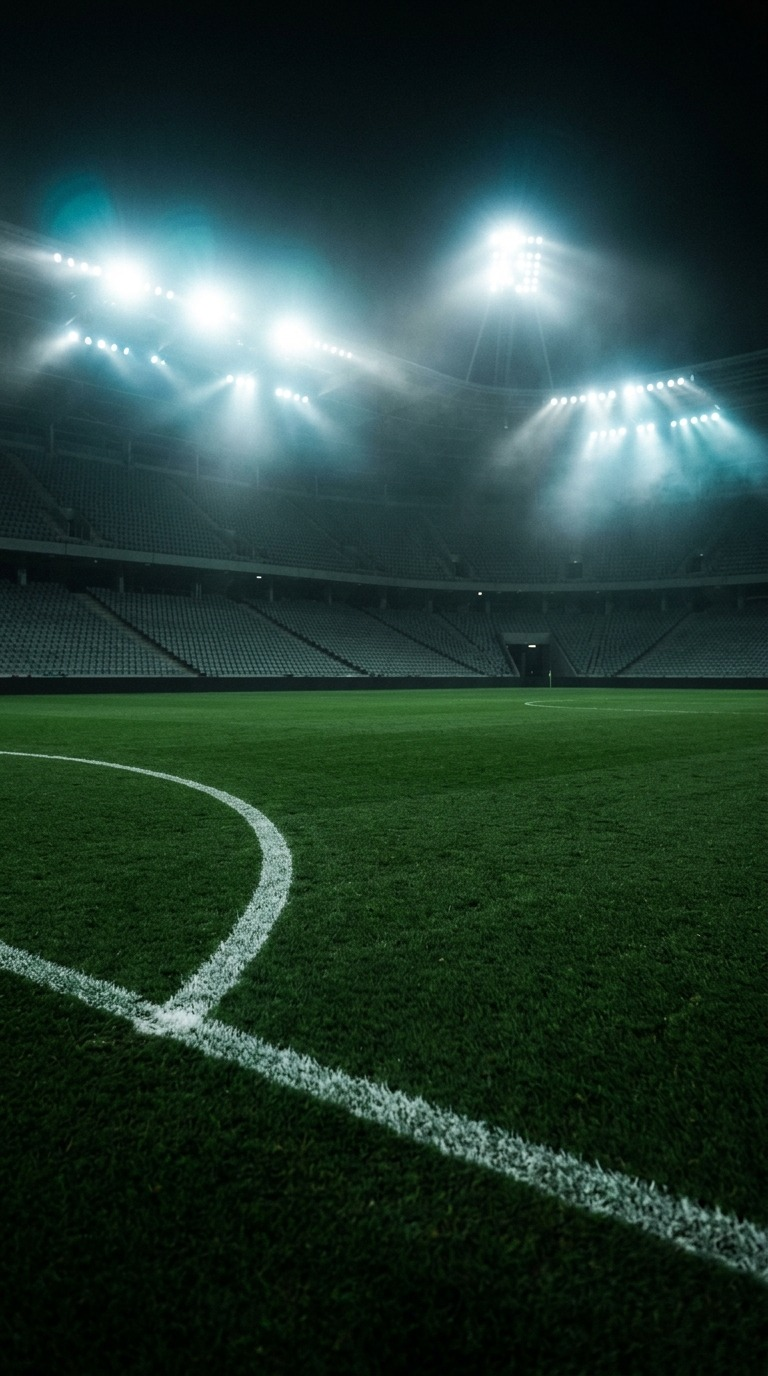
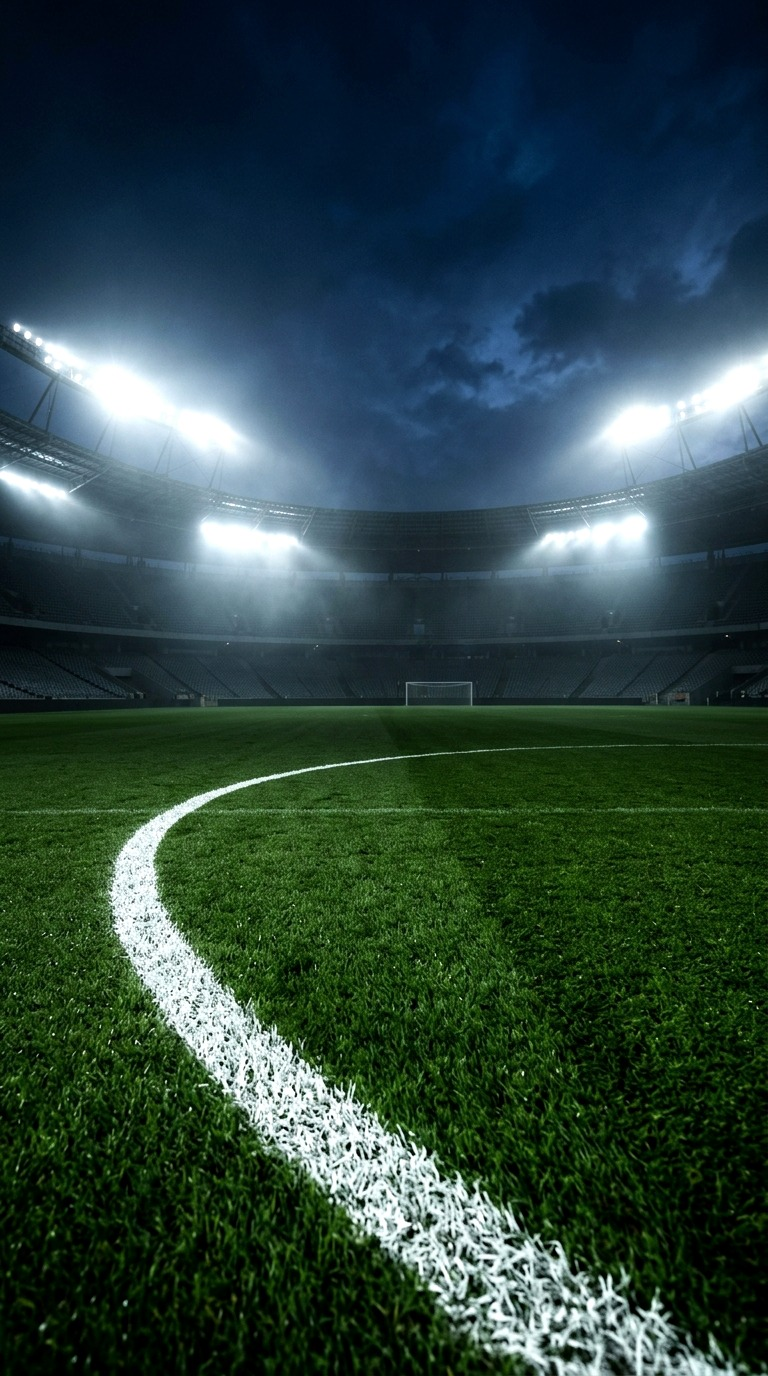
feat(ui): update quick registration screen with unique football stadium bg, refined typography and theme button

diff --git a/lib/screens/quick_registration_screen.dart b/lib/screens/quick_registration_screen.dart
@@ -1,5 +1,6 @@
 import 'package:flutter/material.dart';
 import '../services/routing_service.dart';
+import '../theme/app_theme.dart';
 
 class QuickRegistrationScreen extends StatelessWidget {
   final String? headline;
@@ -16,88 +17,19 @@ class QuickRegistrationScreen extends StatelessWidget {
 
   const QuickRegistrationScreen({
     super.key,
-    this.headline,
-    this.headlineAccent,
-    this.description,
-    this.ctaText,
-    this.footerText,
+    this.headline = 'Быстрая',
+    this.headlineAccent = 'регистрация',
+    this.description =
+        'Зарегистрируйтесь на сайте и откройте доступ к актуальному предложению. Регистрация займёт всего пару минут.',
+    this.ctaText = 'Перейти к регистрации',
+    this.footerText = 'После нажатия откроется сайт для регистрации.',
     this.registrationUrl = 'https://applinkgo.com/srf2PnRD',
     this.backgroundAsset = 'assets/stadium_bg.jpg',
-    this.primaryCtaColor = const Color(0xFF007AFF),
-    this.accentTextColor = const Color(0xFF2979FF),
+    this.primaryCtaColor = AppTheme.primaryColor,
+    this.accentTextColor = AppTheme.secondaryColor,
     this.onClose,
     this.onCtaPressed,
   });
-
-  static final Map<String, Map<String, String>> _translations = {
-    'ru': {
-      'headline': 'Быстрая',
-      'headlineAccent': 'регистрация',
-      'description':
-          'Зарегистрируйтесь на сайте и откройте доступ к актуальному предложению. Регистрация займёт всего пару минут.',
-      'cta': 'Перейти к регистрации',
-      'footer': 'После нажатия откроется сайт для регистрации.',
-    },
-    'en': {
-      'headline': 'Quick',
-      'headlineAccent': 'Registration',
-      'description':
-          'Register on the website and get access to the latest exclusive offer. Registration takes only a few minutes.',
-      'cta': 'Proceed to Registration',
-      'footer': 'The registration website will open after tapping.',
-    },
-    'es': {
-      'headline': 'Registro',
-      'headlineAccent': 'Rápido',
-      'description':
-          'Regístrese en el sitio web y obtenga acceso a la oferta actual. El registro solo toma un par de minutos.',
-      'cta': 'Ir al registro',
-      'footer': 'El sitio de registro se abrirá tras pulsar.',
-    },
-    'pt': {
-      'headline': 'Cadastro',
-      'headlineAccent': 'Rápido',
-      'description':
-          'Cadastre-se no site e tenha acesso à oferta atual. O cadastro leva apenas alguns minutos.',
-      'cta': 'Ir para o cadastro',
-      'footer': 'O site de cadastro será aberto após clicar.',
-    },
-    'kk': {
-      'headline': 'Жылдам',
-      'headlineAccent': 'тіркелу',
-      'description':
-          'Сайтта тіркеліп, өзекті ұсынысқа қол жеткізіңіз. Тіркелу бар болғаны бірнеше минут алады.',
-      'cta': 'Тіркелуге өту',
-      'footer': 'Басқаннан кейін тіркелу сайты ашылады.',
-    },
-    'tr': {
-      'headline': 'Hızlı',
-      'headlineAccent': 'Kayıt',
-      'description':
-          'Web sitesine kaydolun ve güncel teklife erişim kazanın. Kayıt sadece birkaç dakika sürer.',
-      'cta': 'Kayıt Olmaya Git',
-      'footer': 'Tıkladıktan sonra kayıt sitesi açılacaktır.',
-    },
-    'de': {
-      'headline': 'Schnelle',
-      'headlineAccent': 'Registrierung',
-      'description':
-          'Registrieren Sie sich auf der Website und erhalten Sie Zugang zum aktuellen Angebot. Die Registrierung dauert nur wenige Minuten.',
-      'cta': 'Zur Registrierung',
-      'footer': 'Nach dem Antippen öffnet sich die Registrierungsseite.',
-    },
-  };
-
-  Map<String, String> _getLocalizedStrings(BuildContext context) {
-    try {
-      final locale = View.of(context).platformDispatcher.locale;
-      final lang = locale.languageCode.toLowerCase();
-      if (_translations.containsKey(lang)) {
-        return _translations[lang]!;
-      }
-    } catch (_) {}
-    return _translations['ru']!;
-  }
 
   void _handleCta(BuildContext context) {
     if (onCtaPressed != null) {
@@ -109,19 +41,12 @@ class QuickRegistrationScreen extends StatelessWidget {
 
   @override
   Widget build(BuildContext context) {
-    final loc = _getLocalizedStrings(context);
-
-    final displayHeadline = headline ?? loc['headline']!;
-    final displayHeadlineAccent = headlineAccent ?? loc['headlineAccent']!;
-    final displayDescription = description ?? loc['description']!;
-    final displayCta = ctaText ?? loc['cta']!;
-    final displayFooter = footerText ?? loc['footer']!;
-
     return Scaffold(
       backgroundColor: Colors.black,
       body: Stack(
         fit: StackFit.expand,
         children: [
+          // 1. Full-bleed Themed Football Stadium Background
           Image.asset(
             backgroundAsset,
             fit: BoxFit.cover,
@@ -130,26 +55,31 @@ class QuickRegistrationScreen extends StatelessWidget {
               color: const Color(0xFF0A121A),
             ),
           ),
+
+          // 2. Cinematic Vignette Gradient Overlay
           DecoratedBox(
             decoration: BoxDecoration(
               gradient: LinearGradient(
                 begin: Alignment.topCenter,
                 end: Alignment.bottomCenter,
                 colors: [
-                  Colors.black.withValues(alpha: 0.50),
+                  Colors.black.withValues(alpha: 0.60),
                   Colors.black.withValues(alpha: 0.20),
-                  Colors.black.withValues(alpha: 0.40),
+                  Colors.black.withValues(alpha: 0.35),
                   Colors.black.withValues(alpha: 0.85),
                 ],
-                stops: const [0.0, 0.25, 0.65, 1.0],
+                stops: const [0.0, 0.25, 0.60, 1.0],
               ),
             ),
           ),
+
+          // 3. UI Layer
           SafeArea(
             child: Padding(
               padding: const EdgeInsets.symmetric(horizontal: 24.0, vertical: 12.0),
               child: Column(
                 children: [
+                  // Top Right: Circular Close Button
                   Row(
                     mainAxisAlignment: MainAxisAlignment.end,
                     children: [
@@ -163,9 +93,9 @@ class QuickRegistrationScreen extends StatelessWidget {
                             height: 44,
                             decoration: BoxDecoration(
                               shape: BoxShape.circle,
-                              color: Colors.white.withValues(alpha: 0.18),
+                              color: Colors.black.withValues(alpha: 0.40),
                               border: Border.all(
-                                color: Colors.white.withValues(alpha: 0.25),
+                                color: Colors.white.withValues(alpha: 0.28),
                                 width: 1,
                               ),
                             ),
@@ -179,63 +109,77 @@ class QuickRegistrationScreen extends StatelessWidget {
                       ),
                     ],
                   ),
+
                   const Spacer(flex: 2),
+
+                  // Center Headline & Description
                   Column(
                     mainAxisSize: MainAxisSize.min,
                     children: [
                       Text(
-                        displayHeadline,
+                        headline!,
                         textAlign: TextAlign.center,
                         style: const TextStyle(
-                          fontSize: 42,
+                          fontSize: 44,
                           fontWeight: FontWeight.w900,
                           color: Colors.white,
-                          letterSpacing: -0.5,
-                          height: 1.05,
+                          letterSpacing: -1.0,
+                          height: 1.04,
                           shadows: [
                             Shadow(
-                              color: Colors.black87,
-                              blurRadius: 16,
-                              offset: Offset(0, 2),
+                              color: Colors.black,
+                              blurRadius: 24,
+                              offset: Offset(0, 3),
                             ),
-                          ],
-                        ),
-                      ),
-                      const SizedBox(height: 4),
-                      Text(
-                        displayHeadlineAccent,
-                        textAlign: TextAlign.center,
-                        style: TextStyle(
-                          fontSize: 42,
-                          fontWeight: FontWeight.w900,
-                          color: accentTextColor,
-                          letterSpacing: -0.5,
-                          height: 1.05,
-                          shadows: const [
                             Shadow(
                               color: Colors.black87,
-                              blurRadius: 16,
-                              offset: Offset(0, 2),
+                              blurRadius: 10,
+                              offset: Offset(0, 1),
                             ),
                           ],
                         ),
                       ),
-                      const SizedBox(height: 20),
+                      const SizedBox(height: 2),
+                      Text(
+                        headlineAccent!,
+                        textAlign: TextAlign.center,
+                        style: TextStyle(
+                          fontSize: 44,
+                          fontWeight: FontWeight.w900,
+                          color: accentTextColor,
+                          letterSpacing: -1.0,
+                          height: 1.04,
+                          shadows: [
+                            Shadow(
+                              color: Colors.black,
+                              blurRadius: 24,
+                              offset: const Offset(0, 3),
+                            ),
+                            Shadow(
+                              color: accentTextColor.withValues(alpha: 0.45),
+                              blurRadius: 28,
+                              offset: const Offset(0, 0),
+                            ),
+                          ],
+                        ),
+                      ),
+                      const SizedBox(height: 22),
                       Padding(
-                        padding: const EdgeInsets.symmetric(horizontal: 8.0),
+                        padding: const EdgeInsets.symmetric(horizontal: 14.0),
                         child: Text(
-                          displayDescription,
+                          description!,
                           textAlign: TextAlign.center,
                           style: TextStyle(
                             fontSize: 16,
-                            height: 1.45,
-                            color: Colors.white.withValues(alpha: 0.92),
-                            fontWeight: FontWeight.w400,
+                            height: 1.48,
+                            color: Colors.white.withValues(alpha: 0.94),
+                            fontWeight: FontWeight.w500,
+                            letterSpacing: -0.2,
                             shadows: const [
                               Shadow(
-                                color: Colors.black87,
-                                blurRadius: 12,
-                                offset: Offset(0, 1),
+                                color: Colors.black,
+                                blurRadius: 16,
+                                offset: Offset(0, 2),
                               ),
                             ],
                           ),
@@ -243,7 +187,10 @@ class QuickRegistrationScreen extends StatelessWidget {
                       ),
                     ],
                   ),
+
                   const Spacer(flex: 3),
+
+                  // Action Button with Primary Theme Color
                   SizedBox(
                     width: double.infinity,
                     height: 58,
@@ -252,30 +199,47 @@ class QuickRegistrationScreen extends StatelessWidget {
                       style: ElevatedButton.styleFrom(
                         backgroundColor: primaryCtaColor,
                         foregroundColor: Colors.white,
-                        elevation: 8,
-                        shadowColor: primaryCtaColor.withValues(alpha: 0.5),
+                        elevation: 10,
+                        shadowColor: primaryCtaColor.withValues(alpha: 0.60),
                         shape: RoundedRectangleBorder(
-                          borderRadius: BorderRadius.circular(16),
+                          borderRadius: BorderRadius.circular(18),
                         ),
                       ),
-                      child: Text(
-                        displayCta,
-                        style: const TextStyle(
-                          fontSize: 18,
-                          fontWeight: FontWeight.w700,
-                          letterSpacing: 0.2,
-                        ),
+                      child: Row(
+                        mainAxisAlignment: MainAxisAlignment.center,
+                        children: [
+                          Text(
+                            ctaText!,
+                            style: const TextStyle(
+                              fontSize: 18,
+                              fontWeight: FontWeight.w800,
+                              letterSpacing: 0.3,
+                            ),
+                          ),
+                          const SizedBox(width: 10),
+                          const Icon(Icons.arrow_forward_rounded, size: 22),
+                        ],
                       ),
                     ),
                   ),
+
                   const SizedBox(height: 14),
+
+                  // Footer Disclaimer
                   Text(
-                    displayFooter,
+                    footerText!,
                     textAlign: TextAlign.center,
                     style: TextStyle(
                       fontSize: 13,
                       color: Colors.white.withValues(alpha: 0.72),
                       fontWeight: FontWeight.w400,
+                      shadows: const [
+                        Shadow(
+                          color: Colors.black87,
+                          blurRadius: 8,
+                          offset: Offset(0, 1),
+                        ),
+                      ],
                     ),
                   ),
                   const SizedBox(height: 16),
